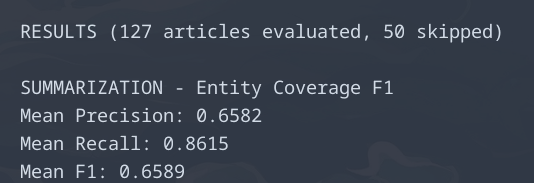
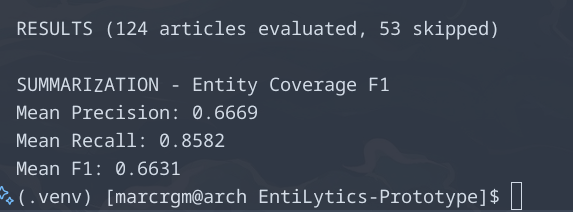
feat: update summarization with results

diff --git a/testing/summarization/evaluate_summary.py b/testing/summarization/evaluate_summary.py
@@ -1,8 +1,7 @@
 """
 Summarization Evaluation: Entity Coverage F1
 
-Evaluates EntiLytics summarization against a gold standard derived from 
-article headlines.
+Evaluates EntiLytics summarization against headlines entities.
 
 Gold Standard: Named entities extracted from headlines using Flair NER.
 Research shows headline entities are primary content subjects, making them 
@@ -40,20 +39,70 @@ if not csv_dataset_path.exists():
 articles_dataframe = pd.read_csv(csv_dataset_path)
 print(f"Loaded {len(articles_dataframe)} articles from {csv_dataset_path}")
 
-# Filter stub articles (RSS placeholders with no real content)
-initial_article_count = len(articles_dataframe)
-articles_dataframe = articles_dataframe[
-    ~articles_dataframe["full_text"].str.strip().str.match(r"^The post .+ appeared first on .+\.$")
-]
-print(f"Filtered {initial_article_count - len(articles_dataframe)} stub articles, "
-      f"{len(articles_dataframe)} remaining\n")
+def is_acronym_of(short, long):
+    """Check if short is an acronym of long"""
+    if len(short) < 2:
+        return False
+    words = [w for w in long.split() if w]
+    if len(words) < len(short):
+        return False
+    return short == "".join(w[0] for w in words)
+
+
+def is_partial_acronym_of(short, long):
+    """Check if short is an acronym ignoring function words"""
+    if len(short) < 2:
+        return False
+    stop_words = {"for", "of", "the", "and", "in", "at", "by", "a", "an"}
+    content_words = [w for w in long.split() if w not in stop_words]
+    if len(content_words) < len(short):
+        return False
+    return short == "".join(w[0] for w in content_words)
+
+
+def is_match(entity_a, entity_b):
+    """Check if two entities are the same (handles exact, substring, and acronym variations)"""
+    a = entity_a.strip().lower()
+    b = entity_b.strip().lower()
+
+    if not a or not b:
+        return False
+
+    # Exact match
+    if a == b:
+        return True
+
+    # Short entities (< 3 chars) only match via acronym to avoid false positives
+    if len(a) < 3 or len(b) < 3:
+        return (is_acronym_of(a, b) or is_acronym_of(b, a) or
+                is_partial_acronym_of(a, b) or is_partial_acronym_of(b, a))
+
+    # Longer entities can match via substring
+    if a in b or b in a:
+        return True
+
+    # Also check acronym variations for longer entities
+    return (is_acronym_of(a, b) or is_acronym_of(b, a) or
+            is_partial_acronym_of(a, b) or is_partial_acronym_of(b, a))
+
+
+def is_valid_gold_entity(text):
+    """Filter out NER mistakes - reject very long phrases and clauses that aren't true named entities"""
+    words = text.split()
+    if len(words) > 5:  # Too long to be a named entity
+        return False
+    clause_markers = {"to", "would", "did", "have", "said", "says", "want", "wants"}
+    if any(w in clause_markers for w in words):  # Contains action verbs, likely not an NE
+        return False
+    return True
 
 
 def extract_gold_entities_from_headline(headline_text):
-    """Extract named entities from headline as gold standard."""
-    extracted_entities = identify_entities(headline_text)
+    """Get the named entities from headline, filtered to remove false positives"""
+    entities = identify_entities(headline_text)
     return set(
-        entity["text"].lower() for entity in extracted_entities
+        e["text"].lower() for e in entities
+        if is_valid_gold_entity(e["text"].lower())
     )
 
 